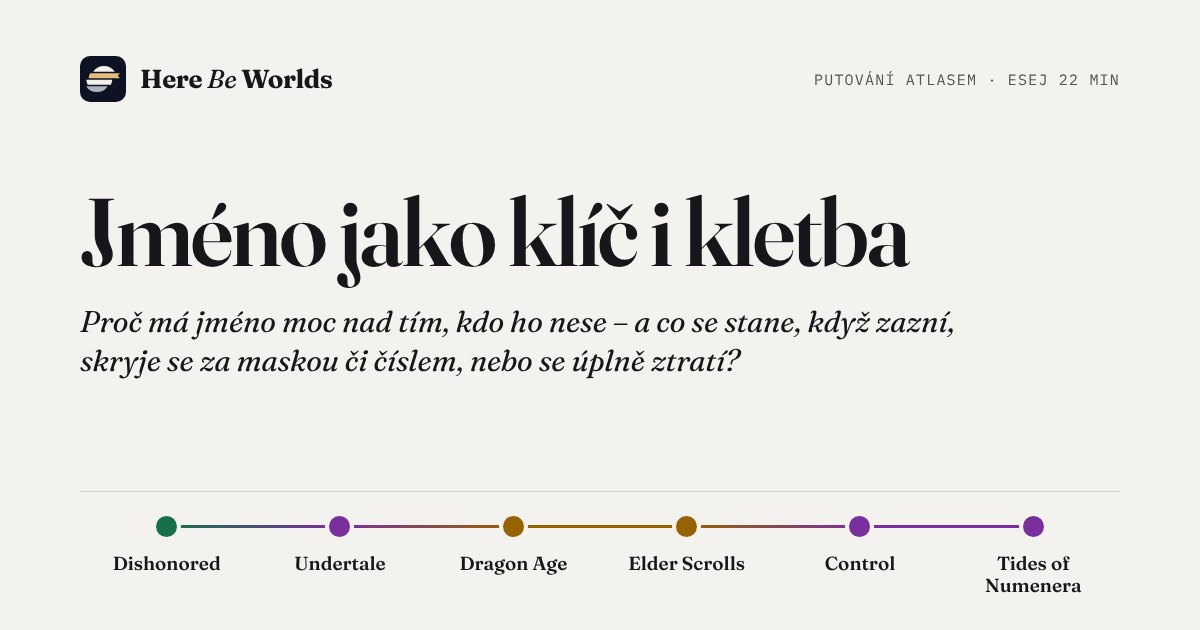
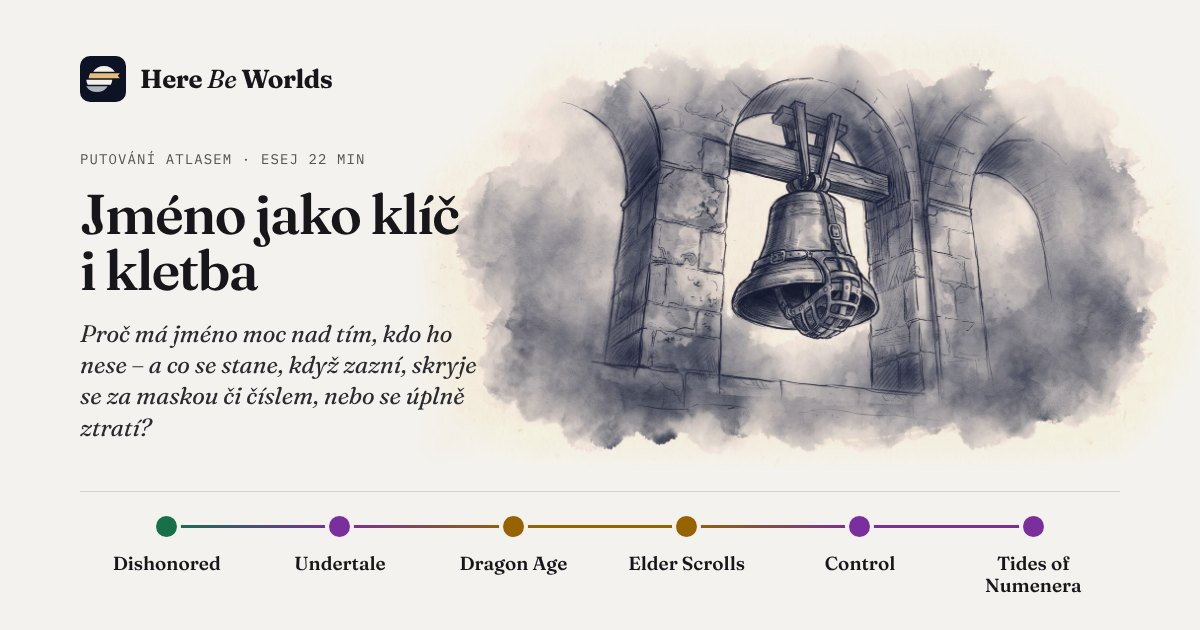
Obrázky k putování Jméno jako klíč i kletba: zvon s náhubkem, mříže s čárovým kódem, strašák s korunou; pravidlo spojit nespojitelné
Claude-Session: https://claude.ai/code/session_01B7obWLKHHEWxurZ5a1svnf

diff --git a/src/lib/trail-images.ts b/src/lib/trail-images.ts
@@ -33,6 +33,7 @@ export const READY: Record<TrailId, number> = {
   'chronicle-keepers': 3,
   copies: 3,
   'endless-work': 3,
+  'true-names': 3,
 };
 
 const DIR = 'putovani-obrazky';

diff --git a/docs/obrazky-putovani.md b/docs/obrazky-putovani.md
@@ -12,9 +12,10 @@ Stav 2026-11-23: styl nalezený po pěti kolech zkoušek (náhled `/putovani/nav
 - **Víc motivů k objevování:** hlavní tvar ať je složený z několika nečekaných předmětů, které člověk objeví až při delším pohledu (vzor: most z dlažby, kořenů, copů a šňůr s prádlem; majitel 2026-11-23). Jen když dávají jednomu tvaru smysl, nikdy jako výčet symbolů tématu.
 - **Zadání pro motivy: odvaha, surrealismus, silná myšlenka (majitel 2026-11-26, po Logu nad troskami, „zdaleka nejlepší série“):** motivy střídat a nebát se odvážných, i absurdních nápadů, i když se špatně převádějí do obrázku. Surrealisticky, ne doslovně; obraz má mít rafinovanost a silnou myšlenku, klidně i složitější. Majiteli se líbí satira a ironie. Co fungovalo: obyčejný, všem známý předmět nebo stavba na špatném místě nebo z nepatřičné látky, takže z něj je paradox, který se čte na první pohled (parkovací automaty místo náhrobků, atomový hřib jako kancelářská budova s trávníkem, mraky na provázku s cenovkou), a jedna velká čitelná silueta. Nevyšlo: guma (vypadala jako pilulka, vygumovaná půlka zůstala nakreslená) a razítko (otisk jako položená fotka). Gemini nezvládá změnu jednoho obrazu ve druhý na ploše, zvládá předmět na nečekaném místě.
 - **Styl neujíždět (majitel 2026-11-26, u Smíchu nad propastí):** styl držet podle série Logo nad troskami. Ve scéně nejmenovat barvy ani materiály (ne „červený provaz“, „rezavý stůl“, „lesklé balonky“, „mosazný zvonek“): Gemini je bere doslova a přebijí monochromní tuš. Scéna dvě až tři věty, hlavní tvar a jeden detail, ne výčet předmětů; dlouhá scéna táhne kresbu k čisté komiksové ilustraci a mlha mizí. Pokaždé nový chat a vždy stejný vzor `25-styl-vicko.jpg`, nikdy nový obrázek jako vzor. Pozor (majitel 2026-11-26 odpoledne, styl i barvy zase ujely): příčinou bylo, že Claude u každého promptu přepisoval i řádky Mood, Composition a Avoid (vlastní nálady, dlouhé seznamy zákazů včetně „cartoon, comic-book style…“, které Gemini spíš navedou). **Prompt je vždy přesně šablona z oddílu Jak generovat a mění se jen řádek Scene**; nálada se vyjádří uvnitř Scene, ne vlastním Mood.
+- **Spojit nespojitelné (majitel 2026-11-26, Jméno jako klíč i kletba):** nejlépe fungují dva známé předměty ze vzdálených světů spojené do jednoho paradoxu (zvon s psím náhubkem, vězeňské mříže a čárový kód, strašák s korunou, kterému se klaní vrány), ne jeden okoukaný symbol tématu (klíč, zámek, strom, cenovky – „ohrané“).
 - **Mood a Composition u velkých scén (majitel 2026-11-26, Práce, která nikdy nekončí):** šablona v oddílu Jak generovat (Mood „jedna myšlenka nesená jedním malým předmětem“, Composition „detail nebo polocelek“) patří jen ke scénám s jedním předmětem. U velké scény (brána hřbitova s plotem, dům, krajina) psát Mood a Composition na míru jako u série Logo nad troskami, Style a Colour nikdy neměnit. Po nezdaru nepřidávat do scény další požadavky (ciferník bez ručiček, jedna díra v každé kartě, dva stojany…): scéna pak bývá horší; spíš se vrátit k nejjednodušší verzi, která fungovala.
 - **Neopakovat se, nečekaný znepokojivý detail (majitel 2026-11-25, u Prokletého dědictví):** napříč putováními se začaly opakovat stejné rekvizity (klíčky, zrcadla, obrazy, botičky, stopy) a majitel to zamítl: „chce to přijít s něčím nečekaným, a o to víc znepokojivým, musí tam být nějaký nečekaný moment, detail“. Vzor: kolébka s korunou, jejíž stín na zdi je rakev. Postup: obyčejný předmět (domácí, dětský, rodinný), který na první pohled nic nenaznačuje, a jediný detail, který ho na druhý pohled převrátí. Před návrhem motivů projít seznam níže a nesáhnout po ničem, co v něm už je; když se rekvizita přece jen hodí, říct to majiteli předem. Témata smějí být temná a zlověstná, bez krve a násilí (v promptu `Avoid: … gore`; u temných putování Mood „ominous surrealism … heavy with dread“ místo „quiet“).
-- **Už použité rekvizity (doplňovat po každém putování):** klíče a klíčové dírky (klíč stočený do kruhu, měsíc jako klíčová dírka) · zrcadla (rukavice a zrcátko, zamlžené zrcadlo) · obrazy a rámy (stín, který vypadl z obrazu) · boty a stopy (stopy ve sněhu, prázdné boty u žebříku) · prázdné oděvy (plášť na trůnu, kabát ukazující cestu, rukavice) · žebra a kosti jako stavivo (katedrála ze žeber, jablko se žebry) · trůny (plášť na trůnu, trůn s břízou) · knihy, deníky a dopisy (postavička z knihy, můra z deníku, dopisy z hlavy sochy, hranice srolovaných dopisů) · hodiny (kavalerie z rozbitých hodin) · světla (lucerna, svíčka, oheň u gramofonu) · koště a brky (koště z brků) · kouř (sirka z kouře, beránek z kouře) · nábytek a pokoje (křesla za sklem, okno s pokojem na pláni, koberec nad jámou) · stín jako odhalení (stín klíče, stín z obrazu, stín chapadel u pulce, stín rakve u kolébky) · ostatní: městečko na jevišti s roztrženým nebem, vajíčko ve vajíčku, kamenné víčko, domy otáčející se za chodcem, most z dlažby, kořenů, copů a prádla, prapory z hejn ptáků, kolotoč z děl, žebřík opřený o nebe, gramofon s hvězdami, sklenice s pulcem, mince na hraně, řetěz s dětským poutem, šperkovnice s mléčnými zuby, koleje a výhybka (smyčka jako oko), obojek s vodítkem do mraků, trhací kalendář s prázdnými listy, hostina v dunách, schodiště zpět do země, zazděný oblouk s pěšinou kolem, atomový hřib jako budova, parkovací automaty jako náhrobky, mraky na provázku s cenovkami, banánová slupka nad propastí, ostnatý plot s girlandami a balonky, úsměv na zamlženém okénku, socha s vyměnitelnou hlavou, stohy ze skartovaného papíru, psací stroj s papírovou cestou, dva měsíce s jedním odrazem, pampeliška z pampelišek, kohout vyměněný s korouhví, koště a zavátá dlažba v dunách, píchačky u hřbitova, balíky u rozpadlého domu (a kolébka v seznamu stínů). Zkoušené a zamítnuté u svobodné vůle: hrací skříňka s baletkou, kostka ve vzduchu, piliny s magnetem (třikrát nevyšlo), budka zatlučená zevnitř. U Ráje: hradby obrácené dovnitř (vyšel obyčejný hrad), maják na dně (vypadá jako zatopený katastrofou), ráj pod skleněným zvonem (vypadá jako sněžítko), fontána s pískem (písek vypadá jako voda), kryt s pentlí (dveře jako trezor z Falloutu). U Smíchu nad propastí: pochod natahovacích zubů a jednokolka na girlandě přes rokli (dobré, ale znovu skály a propast), čertík v krabičce (barevný), kartotéka s vesmírem (digitální jiskry), past s konfetami, plynová maska s úsměvem, socha v šaškovské čepici (komiks), přepážka v bouři (červený provaz), balonkový pes v pitevně (lesklý), hráz z gumových kachniček (výborná, záloha), roztržené šapitó, rakev s frkačkou (frkačka jako svitek), skákací hrad (věžičky jako rakety). U Práce, která nikdy nekončí: jehla sešívající trhlinu v zemi (dobrá, nevybraná), kancelářská židle s koulí na řetězu (klišé), kolo pro křečka nad městem, hora balíků se stromem (vánoční stromeček, levitující balíky), stopy k domu (klišé, stopy už máme), pluh na moři, zeď stavěná a rozpadající se, sekera obroušená na pahýl. Píchačky šly až napotřetí, když se scéna vrátila k nejjednodušší podobě. U Kopie bez originálu: Thésseova loď (prkna nepoznat, hnědá), kopírka s řadou dubů (kopírka už byla u skartovačky), kukaččí vejce (klišé), roubovaná jabloň (přeplácaná), řetěz papírových postav, dva hroby (bez druhé vrstvy), otisky prstů, stožár s větví, sbírka motýlů, láhev s přístavem. U Kdo drží kroniku: mapa se skalpelem (kruhová díra), inkoust zpod archivu (teče z kopce, archiv nepoznat), archeologický řez pod slavností, pomník s vysekanou postavou, odloupnutá tapeta (jakoby na stropě), vykrajovátko na hrdiny (čistá ilustrace), pevnost z knih, puzzle s kladivem, brk nad bojištěm (silný, ale prázdný; verze s přilbami a vavřínem moc světlá). Styl ujížděl, když se do šablony přidal řádek navíc („loose sketch“): obraz zesvětlal; šablonu neměnit, jen řádek Scene. U Loga nad troskami: guma (pilulka), razítko (otisk jako fotka), mravenčí farma s byty (doslovná, záloha). Poučení (majitel 2026-11-25): u celků musí být paradox hlavní tvar a číst se na první pohled; nic ze skutečného světa (Vítězný oblouk z Paříže zamítnut).
+- **Už použité rekvizity (doplňovat po každém putování):** klíče a klíčové dírky (klíč stočený do kruhu, měsíc jako klíčová dírka) · zrcadla (rukavice a zrcátko, zamlžené zrcadlo) · obrazy a rámy (stín, který vypadl z obrazu) · boty a stopy (stopy ve sněhu, prázdné boty u žebříku) · prázdné oděvy (plášť na trůnu, kabát ukazující cestu, rukavice) · žebra a kosti jako stavivo (katedrála ze žeber, jablko se žebry) · trůny (plášť na trůnu, trůn s břízou) · knihy, deníky a dopisy (postavička z knihy, můra z deníku, dopisy z hlavy sochy, hranice srolovaných dopisů) · hodiny (kavalerie z rozbitých hodin) · světla (lucerna, svíčka, oheň u gramofonu) · koště a brky (koště z brků) · kouř (sirka z kouře, beránek z kouře) · nábytek a pokoje (křesla za sklem, okno s pokojem na pláni, koberec nad jámou) · stín jako odhalení (stín klíče, stín z obrazu, stín chapadel u pulce, stín rakve u kolébky) · ostatní: městečko na jevišti s roztrženým nebem, vajíčko ve vajíčku, kamenné víčko, domy otáčející se za chodcem, most z dlažby, kořenů, copů a prádla, prapory z hejn ptáků, kolotoč z děl, žebřík opřený o nebe, gramofon s hvězdami, sklenice s pulcem, mince na hraně, řetěz s dětským poutem, šperkovnice s mléčnými zuby, koleje a výhybka (smyčka jako oko), obojek s vodítkem do mraků, trhací kalendář s prázdnými listy, hostina v dunách, schodiště zpět do země, zazděný oblouk s pěšinou kolem, atomový hřib jako budova, parkovací automaty jako náhrobky, mraky na provázku s cenovkami, banánová slupka nad propastí, ostnatý plot s girlandami a balonky, úsměv na zamlženém okénku, socha s vyměnitelnou hlavou, stohy ze skartovaného papíru, psací stroj s papírovou cestou, dva měsíce s jedním odrazem, pampeliška z pampelišek, kohout vyměněný s korouhví, koště a zavátá dlažba v dunách, píchačky u hřbitova, balíky u rozpadlého domu, zvon s náhubkem, mříže s čárovým kódem, strašák s korunou (a kolébka v seznamu stínů). Zkoušené a zamítnuté u svobodné vůle: hrací skříňka s baletkou, kostka ve vzduchu, piliny s magnetem (třikrát nevyšlo), budka zatlučená zevnitř. U Ráje: hradby obrácené dovnitř (vyšel obyčejný hrad), maják na dně (vypadá jako zatopený katastrofou), ráj pod skleněným zvonem (vypadá jako sněžítko), fontána s pískem (písek vypadá jako voda), kryt s pentlí (dveře jako trezor z Falloutu). U Smíchu nad propastí: pochod natahovacích zubů a jednokolka na girlandě přes rokli (dobré, ale znovu skály a propast), čertík v krabičce (barevný), kartotéka s vesmírem (digitální jiskry), past s konfetami, plynová maska s úsměvem, socha v šaškovské čepici (komiks), přepážka v bouři (červený provaz), balonkový pes v pitevně (lesklý), hráz z gumových kachniček (výborná, záloha), roztržené šapitó, rakev s frkačkou (frkačka jako svitek), skákací hrad (věžičky jako rakety). U Jména jako klíče i kletby: ucho místo zámku, zašitá kamenná tvář, vysekané jméno na náhrobku, stín vlka za kloboukem, šatna s visačkami, cenzurní pruhy v krajině, svlečka člověka, hroby otočené zády, přijímací pás s uniformami, klíč se zuby (klíč ohraný), strom se jmenovkami (strom i cenovky už byly). U Práce, která nikdy nekončí: jehla sešívající trhlinu v zemi (dobrá, nevybraná), kancelářská židle s koulí na řetězu (klišé), kolo pro křečka nad městem, hora balíků se stromem (vánoční stromeček, levitující balíky), stopy k domu (klišé, stopy už máme), pluh na moři, zeď stavěná a rozpadající se, sekera obroušená na pahýl. Píchačky šly až napotřetí, když se scéna vrátila k nejjednodušší podobě. U Kopie bez originálu: Thésseova loď (prkna nepoznat, hnědá), kopírka s řadou dubů (kopírka už byla u skartovačky), kukaččí vejce (klišé), roubovaná jabloň (přeplácaná), řetěz papírových postav, dva hroby (bez druhé vrstvy), otisky prstů, stožár s větví, sbírka motýlů, láhev s přístavem. U Kdo drží kroniku: mapa se skalpelem (kruhová díra), inkoust zpod archivu (teče z kopce, archiv nepoznat), archeologický řez pod slavností, pomník s vysekanou postavou, odloupnutá tapeta (jakoby na stropě), vykrajovátko na hrdiny (čistá ilustrace), pevnost z knih, puzzle s kladivem, brk nad bojištěm (silný, ale prázdný; verze s přilbami a vavřínem moc světlá). Styl ujížděl, když se do šablony přidal řádek navíc („loose sketch“): obraz zesvětlal; šablonu neměnit, jen řádek Scene. U Loga nad troskami: guma (pilulka), razítko (otisk jako fotka), mravenčí farma s byty (doslovná, záloha). Poučení (majitel 2026-11-25): u celků musí být paradox hlavní tvar a číst se na první pohled; nic ze skutečného světa (Vítězný oblouk z Paříže zamítnut).
 - **Světlo:** výchozí je **čistě modrá tuš bez zlaté**. Zlatá (#E5BE7E) jen výjimečně, když ji řádek scény výslovně jmenuje a je jádrem motivu (klíčová dírka na nebi, oheň u gramofonu). Gemini jinak zlatou přidává sám (okénka, lucerny), protože ji má vzorový obrázek: proto prompt výslovně zakazuje převzít lampu ze vzoru (majitel 2026-11-23: „pořád stejné rozsvícené okýnko a lucerna“).
 - **Motiv:** detail nebo polocelek, ne velká scéna. Obraz s druhým čtením: na první pohled obyčejný, na druhý nese otázku eseje. Prázdný prostor kolem.
 - **Nikdy:** text, písmena, podpisy, rámečky; postavy, loga a místa z her; náboženské symboly; lidé (nanejvýš drobná postava zezadu, když to motiv potřebuje); cákance tuše; airbrush; uhlazená digitální linka.
@@ -26,7 +27,7 @@ Stav 2026-11-23: styl nalezený po pěti kolech zkoušek (náhled `/putovani/nav
 - Masky: `maska/<slug>-N.png` podle tuše pro tmavý motiv (`python3 scripts/ink-masks.py`, pak zkopírovat z `navrh-obrazku/maska/`, nebo upravit cestu ve skriptu), `maska/freska.png` obecná.
 - Které putování obrázky má: `READY` v `src/lib/trail-images.ts`. Obrázky se ukážou jen u schválené eseje.
 - Rejstřík `/putovani/` má rozvržení karet ve dvou sloupcích s obrázkem nahoře (C, vybráno ze tří variant: A obraz za textem, B střídavé desky). Obrázek v kartě je v obou motivech stejný: celý 16 : 9 bez ořezu, 90 % šířky karty, odstup nahoře a dole (majitel 2026-11-26); ve světlém motivu s maskou podle tuše (rozkreslené okraje jako v eseji), v tmavém jen fresková maska do ztracena. Dokud nemají obrázky všechna putování, stojí vedle karty s obrázkem textové karty.
-- Na webu (2026-11-23): Hra ví, že ji hraješ (městečko na jevišti s roztrženým namalovaným nebem; postavička vylezlá z ilustrace v knize; stín, který vypadl z obrazu na podlahu); Na mrtvole boha (tři: prázdný plášť na trůnu držený provazy davu; trůn, kterým prorůstá bříza; jablko s žebry místo jádřince); Netvor v zrcadle (zatím jeden: stopy ve sněhu, které se z bot mění v tlapy); Mluví už jen mrtví (tři: prázdný kabát, který ukazuje cestu; můra s křídly z deníku; potopená hlava sochy, z níž stoupají listy dopisu k loďce); Uvězněni v kruhu (tři: klíč stočený do kruhu se stínem rovného klíče; vajíčko ve vajíčku; z kouře dohořelé sirky nová sirka); Bohové jako břemeno (katedrála ze žeber, kamenné víčko); Město, které dýchá (domy, které se otáčejí za chodcem; most z dlažby, kořenů, copů a prádla); Dům, ze kterého nejde odejít (měsíc jako zlatá klíčová dírka nad městečkem, okno uprostřed pláně s pokojem uvnitř). Válka, kterou nikdo nevyhraje (tři obrázky: prapory z hejn ptáků, kolotoč z děl, kavalerie z rozbitých hodin se svíčkou v temnu); Pod lhostejnými hvězdami (žebřík opřený o nebe s prázdnými botami a lucernou, gramofon, ze kterého se sypou hvězdy, u táboráku); Kdo za to může? (tři: prázdná rukavice ukazuje na zrcátko a odraz ukazuje zpět na diváka; koberec, pod jehož rohem je jáma se schody a koště z brků; z hranice srolovaných dopisů odplouvá kouř jako spící beránek, 2026-11-25); Kdo se to probudil? (tři: zamlžené zrcadlo nad umyvadlem, v jehož setřeném pruhu je další zrcadlo; dvě stejná křesla v pokoji rozděleném sklem, které prochází mincí na hraně; sklenice s pulcem, jehož stín na zdi jsou chapadla; 2026-11-25); Prokleté dědictví (tři: kolébka s korunou, jejíž stín je rakev, křížek na koruně vyretušovaný; řetěz z praskliny v zemi s otevřeným dětským poutem, hnědý nádech řetězu převedený do indiga; šperkovnice s náhrdelníkem z mléčných zubů; 2026-11-25); Křehká hranice svobodné vůle (tři: koleje shora, které se u výhybky rozdělí a zase spojí kolem kulatého jezírka, takže tvoří oko; prázdný obojek s vodítkem napnutým do mraků; trhací kalendář s prázdnými listy, jeden právě utržený, původně k jinému tématu, majitel ho přidal; 2026-11-25); Ráj, který se nepovedl (tři, poprvé celky místo předmětu, na pokyn majitele velký motiv a paradox: monumentální schodiště, které se v oblouku vrací zpátky do země (titulní, majitel 2026-11-26); nekonečně dlouhý prostřený stůl v poušti, zavátý dunou; vymyšlený zazděný oblouk se sluncem, kolem jehož boku je v dlažbě vyšlapaná pěšina; 2026-11-25); Logo nad troskami (tři, satira: atomový hřib ztuhlý v kancelářskou budovu s otáčecími dveřmi a ostříhaným trávníkem v troskách; hřbitov, kde místo náhrobků stojí parkovací automaty; opuštěný vozík prodavače mraků na provázcích s prázdnými cenovkami pod holým nebem; 2026-11-26); Smích nad propastí (tři: banánová slupka na samé hraně útesu nad propastí; ostnatý plot se strážní věží vyzdobený girlandami a balonky, jeden balonek splasklý na ostnu; prstem nakreslený úsměv na zamlženém okénku bunkru, ze kterého stéká kondenzace; 2026-11-26); Kdo drží kroniku (tři, satira dějin: jezdecká socha bez hlavy, jeřáb spouští novou hlavu a vedle stojí regál s osmi různými náhradními hlavami; stohy na poli ze skartovaného papíru a skartovačka; psací stroj, jehož papír plynule přechází v cestu krajinou, s ukazatelem ve směru papíru (nakonec nová verze od majitele, kde papír na cestu navazuje sám); 2026-11-26); Kopie bez originálu (tři: dva stejné měsíce nad jezerem, které odráží jen jeden, uprostřed (odraz ručně nahrazený zrcadlenou kopií měsíce, aby seděl); pampeliška, od které místo semínek odlétají malé celé pampelišky a od nich ještě menší; živý kohout ztuhlý na korouhvi a tmavý nýtovaný plechový kohout s klouby v nohou zobající na dvoře (třetí verze, ve scéně tma a hustá mlha; korouhev se šipkou, bez ramen se světovými stranami; tuš sahala skoro k okraji a krémový lem v tmavém motivu prosvítal, proto má variantu pro tmavý motiv `kopie-bez-originalu-3-dark.jpg` s papírem u okraje přebarveným do mlhy; ve světlém motivu zůstává originál s maskou podle tuše. Obecně: obrázek může mít `<soubor>-dark.jpg`, `trail-images.ts` ho najde sám a esej ho ukáže jen v tmavém motivu); 2026-11-26); Práce, která nikdy nekončí (tři: zametený čtvereček dlažby uprostřed dun a kolem stejné čtverce zaváté pískem; tovární píchačky na pilíři hřbitovní brány se stojanem karet; polorozpadlý dům a u něj kopa nedoručených balíků; 2026-11-26). Postup: 5 motivů, vybrat 2. **Motivy: surrealismus a neobvyklé kompozice, klidně velké měřítko a zachycený pohyb (Magritte, Dalí), neobvyklé spojení předmětů (v duchu Magritta), jen lehce doslovné** — první kolo s doslovnými motivy (tapeta, dveře, kolébka) majitel zamítl jako nenápadité. Do promptu řádek `Mood: subtle surrealism in the spirit of Magritte: one unexpected combination, quiet and uncanny, never literal or explanatory. Rich in discoverable detail: several unexpected secondary motifs are woven into the main forms, so the viewer keeps finding new things on a second look.` Po přidání prvního obrázku obnovit kartu pro sdílení: `npm run og -- <slug> putovani` (fonty a Chromium viz CLAUDE.md). Masky: `python3 scripts/ink-masks.py public/putovani-obrazky/<slug>-1.jpg …`; když je světlý papír uprostřed součástí motivu (mezera mezi konci mostu), přidej `--fill`. Skript dělá dvě masky: `<soubor>.png` pro tmavý motiv a širokou `<soubor>-light.png` pro světlý (papír tam schová multiply a lehké vybělení `brightness(1.06) saturate(0.8)`, maska nesmí zamlžit slabé tahy; majitel 2026-11-23). Ve světlém motivu se v eseji kresba ořezává jen širokou maskou (fresková by ořízla tahy štětce nahoře a stopy u spodního okraje); v tmavém motivu (esej i rejstřík) jen fresková maska: tvar je vždy **zvlněný obdélník do ztracena**, nikdy vykrojený podle skvrn tuše (majitel 2026-11-23). Zkoušený okraj podle tahů štětce se světlým lemem majitel zamítl jako „příliš“: v tmavém motivu okraje nebudou tak působivé jako ve světlém a je to tak správně; v rejstříku zůstává i fresková (obrázek je tam oříznutý na 3 : 2).
+- Na webu (2026-11-23): Hra ví, že ji hraješ (městečko na jevišti s roztrženým namalovaným nebem; postavička vylezlá z ilustrace v knize; stín, který vypadl z obrazu na podlahu); Na mrtvole boha (tři: prázdný plášť na trůnu držený provazy davu; trůn, kterým prorůstá bříza; jablko s žebry místo jádřince); Netvor v zrcadle (zatím jeden: stopy ve sněhu, které se z bot mění v tlapy); Mluví už jen mrtví (tři: prázdný kabát, který ukazuje cestu; můra s křídly z deníku; potopená hlava sochy, z níž stoupají listy dopisu k loďce); Uvězněni v kruhu (tři: klíč stočený do kruhu se stínem rovného klíče; vajíčko ve vajíčku; z kouře dohořelé sirky nová sirka); Bohové jako břemeno (katedrála ze žeber, kamenné víčko); Město, které dýchá (domy, které se otáčejí za chodcem; most z dlažby, kořenů, copů a prádla); Dům, ze kterého nejde odejít (měsíc jako zlatá klíčová dírka nad městečkem, okno uprostřed pláně s pokojem uvnitř). Válka, kterou nikdo nevyhraje (tři obrázky: prapory z hejn ptáků, kolotoč z děl, kavalerie z rozbitých hodin se svíčkou v temnu); Pod lhostejnými hvězdami (žebřík opřený o nebe s prázdnými botami a lucernou, gramofon, ze kterého se sypou hvězdy, u táboráku); Kdo za to může? (tři: prázdná rukavice ukazuje na zrcátko a odraz ukazuje zpět na diváka; koberec, pod jehož rohem je jáma se schody a koště z brků; z hranice srolovaných dopisů odplouvá kouř jako spící beránek, 2026-11-25); Kdo se to probudil? (tři: zamlžené zrcadlo nad umyvadlem, v jehož setřeném pruhu je další zrcadlo; dvě stejná křesla v pokoji rozděleném sklem, které prochází mincí na hraně; sklenice s pulcem, jehož stín na zdi jsou chapadla; 2026-11-25); Prokleté dědictví (tři: kolébka s korunou, jejíž stín je rakev, křížek na koruně vyretušovaný; řetěz z praskliny v zemi s otevřeným dětským poutem, hnědý nádech řetězu převedený do indiga; šperkovnice s náhrdelníkem z mléčných zubů; 2026-11-25); Křehká hranice svobodné vůle (tři: koleje shora, které se u výhybky rozdělí a zase spojí kolem kulatého jezírka, takže tvoří oko; prázdný obojek s vodítkem napnutým do mraků; trhací kalendář s prázdnými listy, jeden právě utržený, původně k jinému tématu, majitel ho přidal; 2026-11-25); Ráj, který se nepovedl (tři, poprvé celky místo předmětu, na pokyn majitele velký motiv a paradox: monumentální schodiště, které se v oblouku vrací zpátky do země (titulní, majitel 2026-11-26); nekonečně dlouhý prostřený stůl v poušti, zavátý dunou; vymyšlený zazděný oblouk se sluncem, kolem jehož boku je v dlažbě vyšlapaná pěšina; 2026-11-25); Logo nad troskami (tři, satira: atomový hřib ztuhlý v kancelářskou budovu s otáčecími dveřmi a ostříhaným trávníkem v troskách; hřbitov, kde místo náhrobků stojí parkovací automaty; opuštěný vozík prodavače mraků na provázcích s prázdnými cenovkami pod holým nebem; 2026-11-26); Smích nad propastí (tři: banánová slupka na samé hraně útesu nad propastí; ostnatý plot se strážní věží vyzdobený girlandami a balonky, jeden balonek splasklý na ostnu; prstem nakreslený úsměv na zamlženém okénku bunkru, ze kterého stéká kondenzace; 2026-11-26); Kdo drží kroniku (tři, satira dějin: jezdecká socha bez hlavy, jeřáb spouští novou hlavu a vedle stojí regál s osmi různými náhradními hlavami; stohy na poli ze skartovaného papíru a skartovačka; psací stroj, jehož papír plynule přechází v cestu krajinou, s ukazatelem ve směru papíru (nakonec nová verze od majitele, kde papír na cestu navazuje sám); 2026-11-26); Kopie bez originálu (tři: dva stejné měsíce nad jezerem, které odráží jen jeden, uprostřed (odraz ručně nahrazený zrcadlenou kopií měsíce, aby seděl); pampeliška, od které místo semínek odlétají malé celé pampelišky a od nich ještě menší; živý kohout ztuhlý na korouhvi a tmavý nýtovaný plechový kohout s klouby v nohou zobající na dvoře (třetí verze, ve scéně tma a hustá mlha; korouhev se šipkou, bez ramen se světovými stranami; tuš sahala skoro k okraji a krémový lem v tmavém motivu prosvítal, proto má variantu pro tmavý motiv `kopie-bez-originalu-3-dark.jpg` s papírem u okraje přebarveným do mlhy; ve světlém motivu zůstává originál s maskou podle tuše. Obecně: obrázek může mít `<soubor>-dark.jpg`, `trail-images.ts` ho najde sám a esej ho ukáže jen v tmavém motivu); 2026-11-26); Práce, která nikdy nekončí (tři: zametený čtvereček dlažby uprostřed dun a kolem stejné čtverce zaváté pískem; tovární píchačky na pilíři hřbitovní brány se stojanem karet; polorozpadlý dům a u něj kopa nedoručených balíků; 2026-11-26); Jméno jako klíč i kletba (tři: zvon ve zvonici s koženým psím náhubkem; okno cely s mřížemi a za nimi čárový kód; strašák s korunou, kterému se v kruhu klaní vrány (křížek na koruně vyretušovaný); 2026-11-26). Postup: 5 motivů, vybrat 2. **Motivy: surrealismus a neobvyklé kompozice, klidně velké měřítko a zachycený pohyb (Magritte, Dalí), neobvyklé spojení předmětů (v duchu Magritta), jen lehce doslovné** — první kolo s doslovnými motivy (tapeta, dveře, kolébka) majitel zamítl jako nenápadité. Do promptu řádek `Mood: subtle surrealism in the spirit of Magritte: one unexpected combination, quiet and uncanny, never literal or explanatory. Rich in discoverable detail: several unexpected secondary motifs are woven into the main forms, so the viewer keeps finding new things on a second look.` Po přidání prvního obrázku obnovit kartu pro sdílení: `npm run og -- <slug> putovani` (fonty a Chromium viz CLAUDE.md). Masky: `python3 scripts/ink-masks.py public/putovani-obrazky/<slug>-1.jpg …`; když je světlý papír uprostřed součástí motivu (mezera mezi konci mostu), přidej `--fill`. Skript dělá dvě masky: `<soubor>.png` pro tmavý motiv a širokou `<soubor>-light.png` pro světlý (papír tam schová multiply a lehké vybělení `brightness(1.06) saturate(0.8)`, maska nesmí zamlžit slabé tahy; majitel 2026-11-23). Ve světlém motivu se v eseji kresba ořezává jen širokou maskou (fresková by ořízla tahy štětce nahoře a stopy u spodního okraje); v tmavém motivu (esej i rejstřík) jen fresková maska: tvar je vždy **zvlněný obdélník do ztracena**, nikdy vykrojený podle skvrn tuše (majitel 2026-11-23). Zkoušený okraj podle tahů štětce se světlým lemem majitel zamítl jako „příliš“: v tmavém motivu okraje nebudou tak působivé jako ve světlém a je to tak správně; v rejstříku zůstává i fresková (obrázek je tam oříznutý na 3 : 2).
 
 ## Jak generovat
 

diff --git a/CLAUDE.md b/CLAUDE.md
@@ -83,7 +83,7 @@ Kroniky a eseje **nejsou** v `data/`.
 | `/notes/` | `src/pages/notes/index.astro` | `NotesPage` — obsah oddílů (lepí se pod hlavičku, oddíl, který čteš, je podtržený; na telefonu jeden řádek posuvný do strany, 2026-11-25), rejstříkový seznam pojmů (štítek vlevo, výklad vpravo), legenda 1–5 jako pruh os; oddíly Charakter světa · Profil světa · Triáda (tři pojmy s odkazy do Anatomie a do Galerie triád / Mapy neznáma, pod nimi typy hříchů, dilemata, druhy tajemství a kdo drží mezeru s ikonami – texty z `triad-types.json`, 2026-11-24 se souhlasem majitele) · Příbuznost světů (4 pilíře, 5 stupňů slovy, bez procent) · Kompas a ladění · Hlubina času (2026-11-25 s pokynem majitele: šest pojmů – sloupec a hladina, období her a rysky, dějiny a fundamentální události, odhad, mýtus a cyklus, stupnice, naše časová osa – a odkaz na stránku; `noteDeepTime*`) · Kánon (texty v `data/meta/notes.ts`) |
 | `/anatomie-herniho-lore/` | `src/pages/anatomie-herniho-lore/index.astro` | `EssayPage` (obsah `ReadingToc` vlevo, čtecí sloupec jako kronika, doba čtení pod podtitulem) |
 | `/teoreticke-zazemi/` | `src/pages/teoreticke-zazemi/index.astro` | `EssayPage` z `content/essays/teoreticke-zazemi.md`: prameny atlasu po oblastech (fikční světy, fantastika, herní studia, hrůza a posvátno, mýtus, paměť, osoba a identita, moc a dohled, dílna tvůrců), tabulka pojmů, výhrady k autorům, co by sem ještě patřilo, seznam literatury. Odkaz z Anatomie (oddíl Na čem metoda stojí) a z patičky. **Po zapracování nové knihy doplnit i sem.** |
-| `/putovani/` | `src/pages/putovani/index.astro` | `TrailsIndex` (`src/components/trails/`, styly `trails.css`): hlavička jako atlas, filtry **Svět** a **Téma** (rozsvítí stezky, kterými svět prochází / které se tématu dotýkají, ostatní ztlumí; `?svet=<id>`, `?tema=<slug>`; klik na téma v řádku dělá totéž, jméno světa v kartě vede rovnou na spis světa (majitel 2026-11-24)); rejstřík 22 stezek jako **karty ve dvou sloupcích** (rozvržení C, majitel 2026-11-23; karta: obrázek nahoře přes celou šířku karty do ztracena, 3 : 2, pak název, popis, světy s linkou v barvě archetypu nad každým jménem, témata eseje jako hranaté štítky na tónovaném podkladu (vybrané téma v akcentu) = `themes` v `trails.ts`, 2–4 na stezku, a za nimi „Esej · N min“; karta bez obrázku je jen text; na telefonu jeden sloupec); oddíl **Kde se stezky kříží** (mřížka stezky × všechny světy podle abecedy, i ty na jediné stezce, vpravo počet (majitel 2026-11-22), tečka v barvě archetypu, pod kurzorem se rozsvítí sloupec i řádek, názvy stezek nahoře i dole; na telefonu seznam dvanácti nejvíc křížených světů). V hlavičce webu odkaz Putování hned za Atlasem; Putování dne na titulní straně vedou na stránky putování. Staré adresy `/stezky/…` přesměrovávají (`src/pages/stezky/`, `RedirectPage.astro`). Obrázky k putováním (jediné místo na webu s obrázky): styl a postup `docs/obrazky-putovani.md`, soubory `public/putovani-obrazky/`, seznam `READY` v `src/lib/trail-images.ts`; náhled v rejstříku (`TrailsIndex images`) a v eseji pod úvodním citátem a uprostřed (`EssayPage hero/hero2/heroLive`), okraj do ztracena maskou. Zatím Bohové jako břemeno, Dům, ze kterého nejde odejít, Pod lhostejnými hvězdami, Válka, kterou nikdo nevyhraje, Město, které dýchá, Uvězněni v kruhu, Mluví už jen mrtví, Netvor v zrcadle, Na mrtvole boha, Hra ví, že ji hraješ, Kdo za to může?, Kdo se to probudil?, Prokleté dědictví, Křehká hranice svobodné vůle, Ráj, který se nepovedl, Logo nad troskami, Smích nad propastí, Kdo drží kroniku, Kopie bez originálu a Práce, která nikdy nekončí. Zkušební náhled `/putovani/navrh-obrazku/` (noindex). |
+| `/putovani/` | `src/pages/putovani/index.astro` | `TrailsIndex` (`src/components/trails/`, styly `trails.css`): hlavička jako atlas, filtry **Svět** a **Téma** (rozsvítí stezky, kterými svět prochází / které se tématu dotýkají, ostatní ztlumí; `?svet=<id>`, `?tema=<slug>`; klik na téma v řádku dělá totéž, jméno světa v kartě vede rovnou na spis světa (majitel 2026-11-24)); rejstřík 22 stezek jako **karty ve dvou sloupcích** (rozvržení C, majitel 2026-11-23; karta: obrázek nahoře přes celou šířku karty do ztracena, 3 : 2, pak název, popis, světy s linkou v barvě archetypu nad každým jménem, témata eseje jako hranaté štítky na tónovaném podkladu (vybrané téma v akcentu) = `themes` v `trails.ts`, 2–4 na stezku, a za nimi „Esej · N min“; karta bez obrázku je jen text; na telefonu jeden sloupec); oddíl **Kde se stezky kříží** (mřížka stezky × všechny světy podle abecedy, i ty na jediné stezce, vpravo počet (majitel 2026-11-22), tečka v barvě archetypu, pod kurzorem se rozsvítí sloupec i řádek, názvy stezek nahoře i dole; na telefonu seznam dvanácti nejvíc křížených světů). V hlavičce webu odkaz Putování hned za Atlasem; Putování dne na titulní straně vedou na stránky putování. Staré adresy `/stezky/…` přesměrovávají (`src/pages/stezky/`, `RedirectPage.astro`). Obrázky k putováním (jediné místo na webu s obrázky): styl a postup `docs/obrazky-putovani.md`, soubory `public/putovani-obrazky/`, seznam `READY` v `src/lib/trail-images.ts`; náhled v rejstříku (`TrailsIndex images`) a v eseji pod úvodním citátem a uprostřed (`EssayPage hero/hero2/heroLive`), okraj do ztracena maskou. Zatím Bohové jako břemeno, Dům, ze kterého nejde odejít, Pod lhostejnými hvězdami, Válka, kterou nikdo nevyhraje, Město, které dýchá, Uvězněni v kruhu, Mluví už jen mrtví, Netvor v zrcadle, Na mrtvole boha, Hra ví, že ji hraješ, Kdo za to může?, Kdo se to probudil?, Prokleté dědictví, Křehká hranice svobodné vůle, Ráj, který se nepovedl, Logo nad troskami, Smích nad propastí, Kdo drží kroniku, Kopie bez originálu, Práce, která nikdy nekončí a Jméno jako klíč i kletba. Zkušební náhled `/putovani/navrh-obrazku/` (noindex). |
 | `/putovani/[id]/` | `src/pages/putovani/[id].astro` | Stránka každého putování, adresa = český slug z `TRAIL_SLUGS` (`trails.ts`), stejný jako soubor eseje v `content/trails/`. `EssayPage` s `trail`: pod hlavičkou `TrailCast` (světy) a `TrailThemes` (témata → `/putovani/?tema=`), před Zdroji `TrailWorlds` (souřadnice s výraznými názvy, seznam světů s archetypem a podžánrem). **Esej se ukáže jen s `approved: true` ve frontmatteru** (schvaluje majitel); jinak stránka ukáže rámeček „Esej připravujeme“, Světy putování a oddíl „Na čem putování stojí“ (jména pramenů z tabulky Prameny podle stezek v `docs/prameny/README.md`, `trailSources` v `src/lib/trail-pages.ts`). Neschválené eseje mají náhled `/putovani/navrh/<slug>/` (`noindex`, z webu na něj nic nevede). Schválené (2026-11-21): `na-mrtvole-boha`, `kdo-za-to-muze`, `kdo-se-to-probudil`, `netvor-v-zrcadle`, `mluvi-uz-jen-mrtvi`, `bohove-jako-bremeno`, `valka-kterou-nikdo-nevyhraje`, `proklete-dedictvi`, `krehka-hranice-svobodne-vule`, `uvezneni-v-kruhu`, `hra-vi-ze-ji-hrajes`, `raj-ktery-se-nepovedl`, `logo-nad-troskami`, `smich-nad-propasti`, `mesto-ktere-dycha`, `pod-lhostejnymi-hvezdami`, `kdo-drzi-kroniku`, `kopie-bez-originalu`, `dum-ze-ktereho-nejde-odejit`, `prace-ktera-nikdy-nekonci`, `jmeno-jako-klic-i-kletba`, `nakaza-s-vlastni-vuli` (všech 22). |
 | `/temata/` | `src/pages/temata/index.astro` | `ThemesIndex` (`src/components/themes/`, styly `themes.css`, 2026-11-24): pás hlavičky, řazení Podle abecedy / Podle počtu světů, rejstřík témat ve dvou sloupcích (název → stránka tématu, otázka kurzívou, otisk světů jako čtverečky v barvě archetypu, počet světů a putování) a **Kde se témata potkávají** (trojúhelníková mřížka téma × téma, kruh podle počtu světů s oběma tématy, prázdné šrafované, najetí rozsvítí řádek i sloupec a vypíše dvojici; na telefonu skrytá). |
 | `/temata/[slug]/` | `src/pages/temata/[slug].astro` | `ThemePage`, adresa = český název bez diakritiky (`themePageSlug` v `src/lib/themes.ts`). Hlavička v pásu: štítek „Téma“ (odkaz na rejstřík), název, otázka, „N světů · N archetypů · N putování“, vpravo **obloha z titulní strany v tuši** (`ThemeSky`; hvězdy na stejných místech díky `src/lib/sky.ts`, světy tématu rozsvícené v barvě archetypu a spojené přerušovanou nejkratší trasou, ostatní tlumeně; najetí na hvězdu ukáže jméno). Oddíly: **Světy** (záznamy ve třech sloupcích: linka v barvě archetypu, název, archetyp · podžánr, jádro kurzívou; najetí rozsvítí hvězdu) · **Podoba tématu** (Archetypy: řádek na archetyp, čtverečky = všechny jeho světy, plné = s tématem; Souřadnice: `AxisRange` s prázdným kosočtvercem průměru celého atlasu `reference`) · **Putování** (putování s tématem v `trails.ts` `themes`, první obrázek přes masku, otázka eseje, trasa světů, světy tématu tučně) · **Potkává se s** (šest témat nejčastěji ve stejných světech, `neighbourThemes`; není to příbuznost světů) · odkazy Otevřít v atlasu · Všechna témata. Podklady skládá při sestavení `src/lib/theme-pages.ts`. Odkazy na stránky témat: hledání (lupa), atlas (Další pohledy a „O tématu …“ pod počtem výsledků při filtru tématu), patička. Témata na kartě světa vedou na stránky témat (majitel 2026-11-24). |
